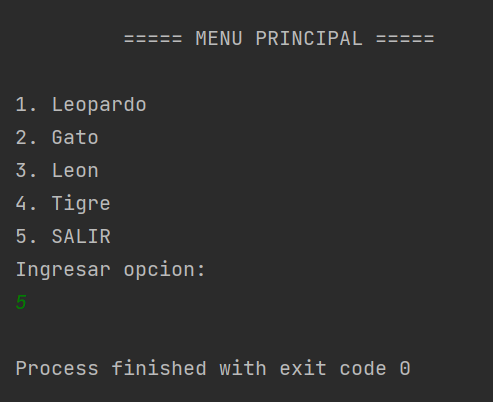
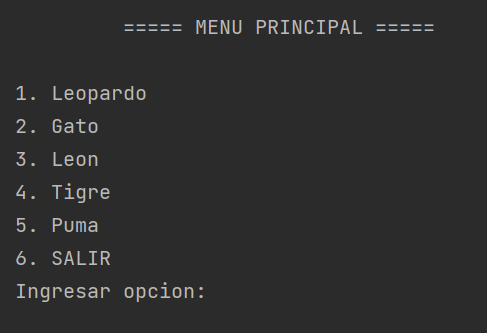
puma me faltaba una especie

diff --git a/src/Main.java b/src/Main.java
@@ -7,6 +7,7 @@ public class Main {
         Leon leon = new Leon("", "", 0, "", 0, 0, "");
         Gato gato = new Gato("", "", 0, "", 0, null, "");
         Tigre tigre = new Tigre("", "", 0, "", 0, 0, "");
+        Puma puma = new Puma(",","",0, "", 0, 0, "");
 
         int op; // variable uso del men
 
@@ -103,11 +104,32 @@ public class Main {
                     tigre.setSalto(sc.nextLine());
                     tigre.imprimirtigre();
                     sc.nextLine();
-
+                    break;
+                }
+                case 5: {
+                    System.out.println("Ingresa la raza: ");
+                    puma.setRaza(sc.nextLine());
+                    System.out.println("Ingresa el nombre: ");
+                    puma.setNombre(sc.nextLine());
+                    System.out.println("Ingresa la edad: ");
+                    puma.setEdad(sc.nextInt());
+                    sc.nextLine();
+                    System.out.println("Ingresa el hábitat: ");
+                    puma.setHabitat(sc.nextLine());
+                    System.out.println("Ingresa el peso:");
+                    puma.setPeso(sc.nextInt());
+                    sc.nextLine();
+                    System.out.println("Ingresa la velocidad maxima: ");
+                    puma.setVelocidadMaxima(sc.nextInt());
+                    sc.nextLine();
+                    System.out.println("Ingresa la ubicacion: ");
+                    puma.setUbicacion(sc.nextLine());
+                    puma.velocidadPuma();
+                    sc.nextLine();
                     break;
                 }
             }
-        } while (op != 5);
+        } while (op != 6);
     }
 
     private static void menu() {
@@ -116,6 +138,7 @@ public class Main {
         System.out.println("2. Gato");
         System.out.println("3. Leon");
         System.out.println("4. Tigre");
-        System.out.println("5. SALIR");
+        System.out.println("5. Puma");
+        System.out.println("6. SALIR");
     }
 }

diff --git a/src/Puma.java b/src/Puma.java
@@ -1,0 +1,50 @@
+public class Puma extends Felinos{
+    private int velocidadMaxima;
+    private String ubicacion;
+
+    //constructor
+    public Puma(String raza, String nombre, int edad, String habitat, int peso, int velocidadMaxima, String ubicacion) {
+        super(raza, nombre, edad, habitat, peso);
+        this.velocidadMaxima = velocidadMaxima;
+        this.ubicacion = ubicacion;
+    }
+
+    //getters and setters
+
+
+    public int getVelocidadMaxima() {
+        return velocidadMaxima;
+    }
+
+    public void setVelocidadMaxima(int velocidadMaxima) {
+        this.velocidadMaxima = velocidadMaxima;
+    }
+
+    public String getUbicacion() {
+        return ubicacion;
+    }
+
+    public void setUbicacion(String ubicacion) {
+        this.ubicacion = ubicacion;
+    }
+
+    //metodos
+    public void velocidadPuma() {
+        System.out.println("Velocidad del puma");
+    }
+
+    //
+    public void imprimirPuma() {
+        System.out.println("=== Información del Puma ===");
+        System.out.println("Raza: " + getRaza());
+        System.out.println("Nombre: " + getNombre());
+        System.out.println("Edad: " + getEdad());
+        System.out.println("Hábitat: " + getHabitat());
+        System.out.println("Peso: " + getPeso());
+        System.out.println("Ubicacion: " + ubicacion);
+        System.out.println("Velocidad maxima: " + velocidadMaxima);
+        velocidadPuma();
+        cazar();
+        rugir();
+    }
+}

diff --git a/README.md b/README.md
@@ -28,7 +28,9 @@ Además, la clase Felinos contiene los métodos rugir() y cazar(), que son compo
 ![img.png](imagenesreadme/17.png)
 
 En resumen, la clase Felinos sirve como una base genérica para representar a diferentes tipos de felinos y proporciona los métodos para acceder y modificar sus atributos, así como para realizar acciones específicas de los felinos, como rugir y cazar.
-## Clases hijas (leon, tigre, gato, leopardo)
+## Clases hijas (leon, tigre, gato, leopardo, puma)
+Un ejemplo de la clase es esta: 
+
 La clase Leopardo hereda de la clase Felinos utilizando la palabra clave extends. Al hacerlo, la clase Leopardo adquiere todos los atributos y métodos de la clase Felinos.
 ![img.png](imagenesreadme/18.png)
 
